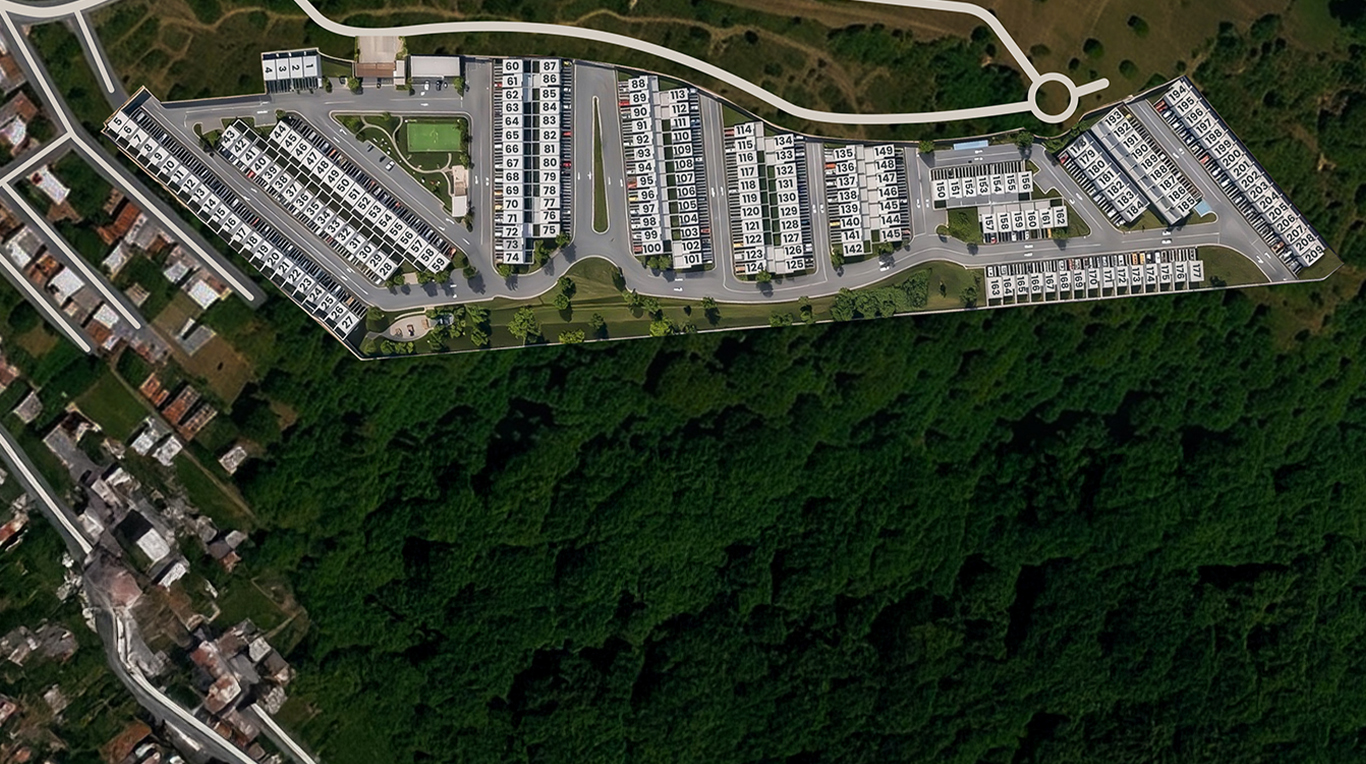
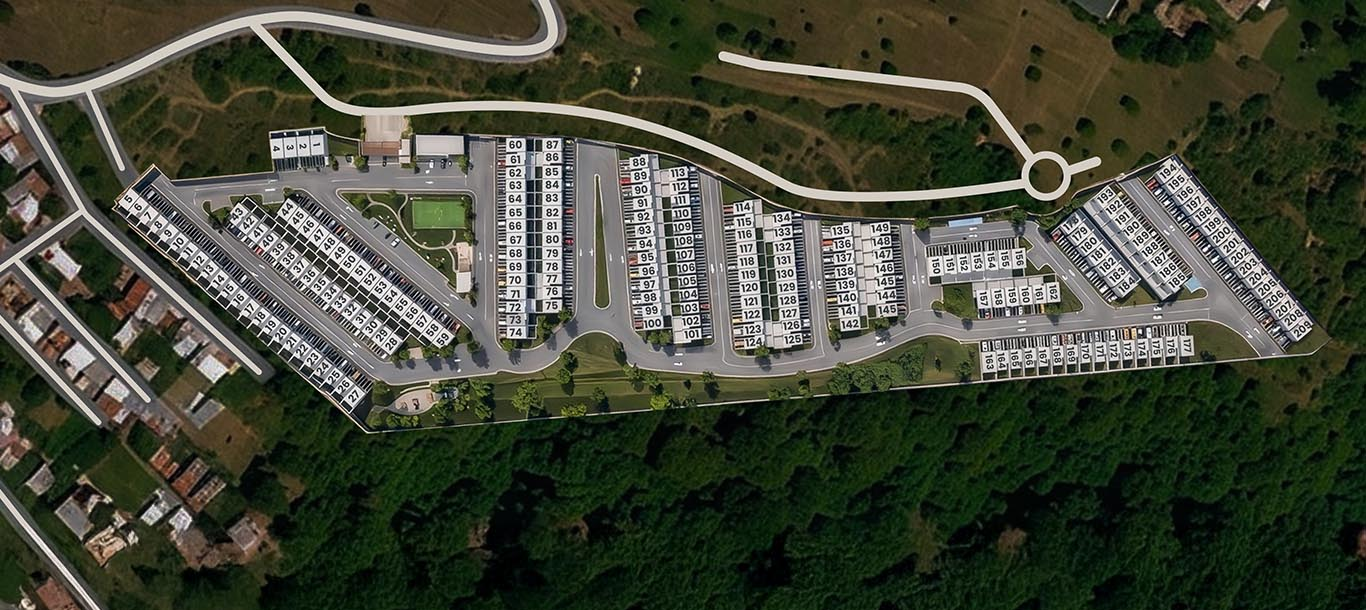
img masterplan

diff --git a/src/pages/home/components/plano-conjunto.tsx b/src/pages/home/components/plano-conjunto.tsx
@@ -17,13 +17,15 @@ export default function PlanoConjunto() {
   return (
     <div
       id="plano"
-      className="flex relative w-full h-[min(100svh,56vw)] min-h-[620px] items-end max-lg:flex-col max-lg:items-stretch max-lg:h-auto max-lg:min-h-0 max-lg:bg-impulso"
+      className="flex relative w-full h-[min(100svh,56vw)] min-h-[620px] items-end lg:overflow-hidden lg:bg-[#1e2b1a] max-lg:flex-col max-lg:items-stretch max-lg:h-auto max-lg:min-h-0 max-lg:bg-impulso"
     >
-      <img
-        src={masterplanImage}
-        alt="Masterplan de Senderos de Aluna"
-        className="absolute inset-0 w-full h-full object-cover object-top max-lg:relative max-lg:inset-auto max-lg:h-[calc(31vw+32px)]"
-      />
+      <div className="absolute inset-x-0 top-0 bottom-[240px] max-lg:relative max-lg:inset-auto">
+        <img
+          src={masterplanImage}
+          alt="Masterplan de Senderos de Aluna"
+          className="size-full object-cover object-center max-lg:h-auto"
+        />
+      </div>
 
       <div className="relative flex flex-col w-full h-[513px] justify-end items-center overflow-visible max-lg:h-auto max-lg:-mt-[32px] max-lg:rounded-t-[32px] max-lg:bg-impulso">
         {/* fondo con forma (solo desktop) */}
